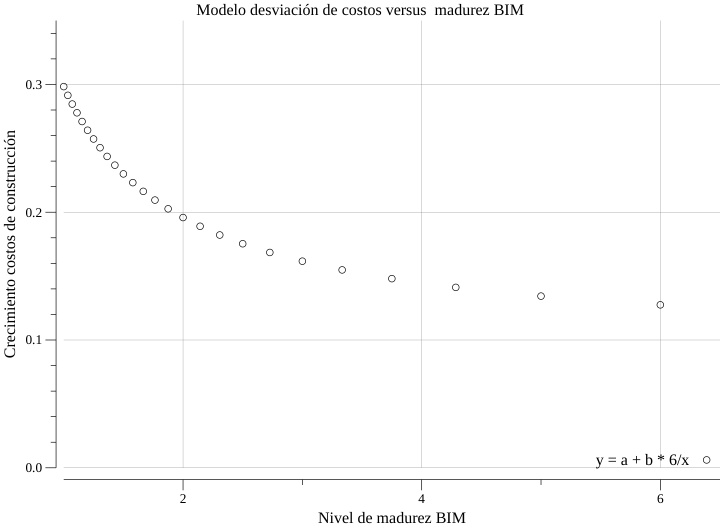
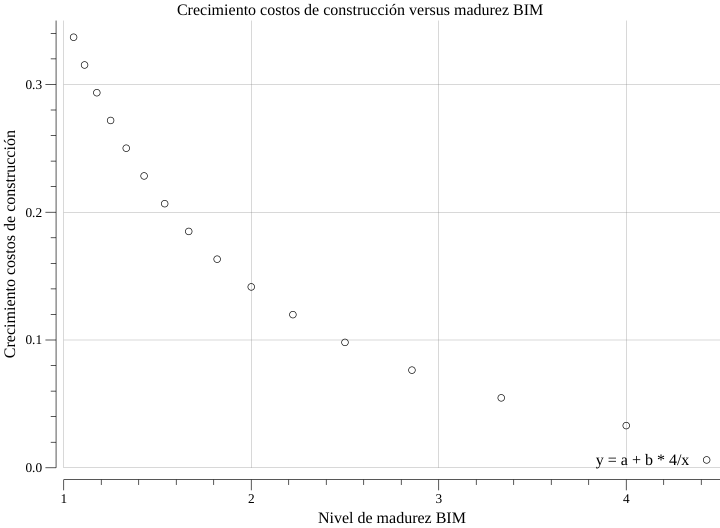
New update 1626671276

diff --git a/main.go b/main.go
@@ -51,16 +51,24 @@ func main() {
 	}
 	fmt.Println("--------------------------------------------")
 
-	fmt.Println("\nXi  : nivel de madurez BIM")
-	fmt.Printf("%v/Xi: indicador de inmadurez BIM\n", flagScale)
-	fmt.Println("Yi  : crecimiento de costos de construcción")
+	// fmt.Println("\nXi  : nivel de madurez BIM")
+	// fmt.Printf("%v/Xi: indicador de inmadurez BIM\n", flagScale)
+	// fmt.Println("Yi  : crecimiento de costos de construcción")
+
+	fmt.Println("\n============================================")
+	fmt.Printf("%35s\n", "Vector coeficientes estimados")
+	fmt.Println("--------------------------------------------")
+	fmt.Printf("%18s %7.4f\n", "B0 =", st.Beta.Beta0)
+	fmt.Printf("%18s %7.4f\n", "B1 =", st.Beta.Beta1)
+	fmt.Println("--------------------------------------------")
 
 	fmt.Println("\n============================================")
 	fmt.Println("       Relación funcional estimada")
 	fmt.Println("--------------------------------------------")
 	fmt.Printf("     Yi = %.4f + %.4f * (%v / Xi) \n", st.Beta.Beta0, st.Beta.Beta1, flagScale)
 	fmt.Printf("--------------------------------------------\n\n")
-	fmt.Println("\n============================================")
+
+	fmt.Println("============================================")
 	fmt.Println("         Coeficiente    p-value    R-squared")
 	fmt.Println("--------------------------------------------")
 	fmt.Printf("    B1:       %.4f     %.4f       %.4f\n", st.Beta.Beta1, st.PValue, st.RSquared)
@@ -129,7 +137,7 @@ func modelPlot(scale, alpha, beta float64) error {
 	if err != nil {
 		panic(err)
 	}
-	p.Title.Text = "Modelo desviación de costos versus  madurez BIM"
+	p.Title.Text = "Crecimiento costos de construcción versus madurez BIM"
 	p.X.Label.Text = "Nivel de madurez BIM"
 	p.Y.Label.Text = "Crecimiento costos de construcción"
 	p.Add(plotter.NewGrid())
